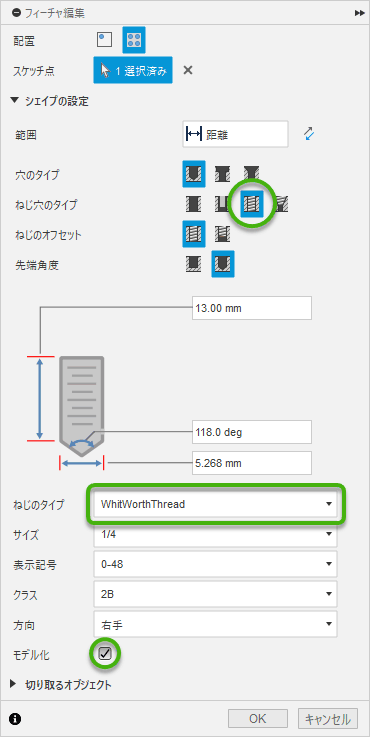
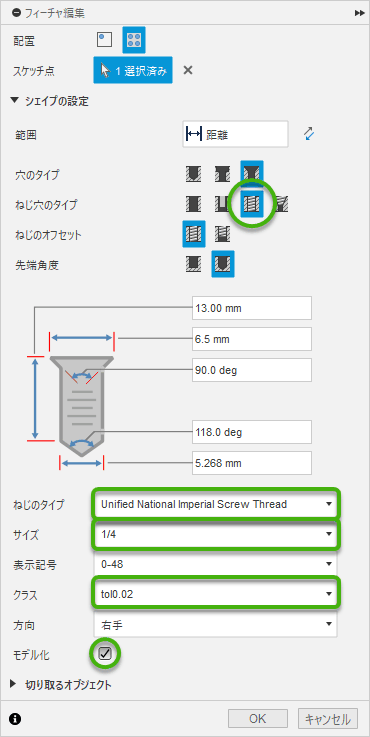
fix article

diff --git a/docs/2025/0129-fusion360-tips/index.html b/docs/2025/0129-fusion360-tips/index.html
@@ -65,40 +65,63 @@
         <p>Fusion360 関連の雑多なメモ。随時追加する</p>
         <h3>三脚・雲台用のネジとネジ穴</h3>
         <p><a href="https://qiita.com/2019Shun/items/ccba3b541a2798bcdf82" target="_blank">Fusion360で三脚・雲台用のインチネジ(W1/4)の設定 #3Dプリンタ - Qiita</a></p>
-        <h4>インストール</h4>
+        <p>上記記事に記載された XML でネジ穴を作ろうとしたものの、我が家の Adventurer3 + FlashPrint のデフォルト設定ではキツすぎたので、寸法をカスタマイズしていくつか試した。</p>
+        <h4>設定ファイルのインストール</h4>
         <ol>
+          <li><a href="./unified-national-imperial-screw-thread-r1.zip">unified-national-imperial-screw-thread-r1.zip</a> をダウンロードして展開する。</li>
           <li>
-            <p>上記記事に添付された XML ファイルを <code>%LOCALAPPDATA%\Autodesk\webdeploy\production\(長い16進数)\Fusion\Server\Fusion\Configuration\ThreadData\</code> に作成する</p>
+            <p>XML ファイルを <code>%LOCALAPPDATA%\Autodesk\webdeploy\production\(長い16進数)\Fusion\Server\Fusion\Configuration\ThreadData\</code> に配置する。</p>
             <ul>
-              <li><code>(長い16進数)</code> のとこはバージョンアップ時に新しく作られるっぽくて、そのたびに XML ファイルを移動させる必要があるかも</li>
+              <li><code>%LOCALAPPDATA%</code> はエクスプローラのアドレスバーに貼り付けると <code>C:\Users\(ユーザ名)\AppData\Local</code> に勝手に置換される。</li>
+              <li><code>(長い16進数)</code> のとこはバージョンアップ時に新しく作られるっぽくて、そのたびに XML ファイルを移動させる必要があるかも。</li>
             </ul>
-          </li>
-          <li>
-            <p>上記記事では W1/4 規格 (ネジ山の角度 = 55°) で作成されているようだけど、厳密には UNC1/4 (60°) にした方がいいかも (参考記事参照)</p>
-            <pre class="lang_diff" title="WhitWorthThead(External).xml">:
-- &lt;Angle&gt;55&lt;/Angle&gt;
-+ &lt;Angle&gt;60&lt;/Angle&gt;
-:
-- &lt;CTD&gt;W1/4&lt;/CTD&gt;
-+ &lt;CTD&gt;UNC1/4&lt;/CTD&gt;
-:</pre>
           </li>
         </ol>
         <h4>使用方法 (穴)</h4>
         <p>穴を開けるときにネジ穴を設定する</p>
         <ul>
           <li>ねじ穴のタイプ: <code>ねじ穴</code></li>
-          <li>ねじのタイプ: <code>WhitWorthThead</code></li>
-          <li>モデル化: チェックする (STL や STEP にエクスポートする場合)</li>
+          <li>ねじのタイプ: <code>Unified National Imperial Screw Thread</code></li>
+          <li>サイズ: <code>1/4</code></li>
+          <li>
+            <p>クラス:</p>
+            <table>
+              <tr>
+                <th class="nowrap" style="text-align: center;">表示名</th>
+                <th>規格 (寸法)</th>
+              </tr>
+              <tr>
+                <td class="nowrap" style="text-align: center;"><code>2B</code></td>
+                <td>1/4-20 UNC 2B</td>
+              </tr>
+              <tr>
+                <td class="nowrap" style="text-align: center;"><code>1B</code></td>
+                <td>1/4-20 UNC 1B</td>
+              </tr>
+              <tr>
+                <td class="nowrap" style="text-align: center;"><code>tol0.02</code></td>
+                <td>規格外 (直径のトレランス=0.02inch)</td>
+              </tr>
+              <tr>
+                <td class="nowrap" style="text-align: center;"><code>tol0.03</code></td>
+                <td>規格外 (直径のトレランス=0.03inch)</td>
+              </tr>
+              <tr>
+                <td class="nowrap" style="text-align: center;"><code>tol0.04</code></td>
+                <td>規格外 (直径のトレランス=0.04inch)</td>
+              </tr>
+            </table>
+            <ul>
+              <li>垂直方向の穴については <code>1B</code> が良い感じだった。</li>
+              <li>水平方向や傾いた穴については <code>tol0.02</code> ～ <code>tol0.03</code> あたりが良い感じだった。</li>
+            </ul>
+          </li>
+          <li>STL や STEP へのエクスポートでネジ山を反映するには <code>モデル化</code> にチェックする</li>
         </ul>
         <p><img src="./unc1p4-ss.png" alt=""></p>
-        <h4>参考記事</h4>
-        <ul>
-          <li><a href="https://slowhome-diy.com/diy/material-comparison/make-your-own-camera-peripherals" target="_blank">カメラの三脚についてるボルトの規格｜unc1/4はw1/4で代用できる？ | スローホーム</a></li>
-        </ul>
                   <hr>
 
-        <h3>三面図の作り方</h3>
+        <h3>三面図</h3>
         <p><a href="https://3d-modely.com/blog/3d-software/fusion-360-drawing/" target="_blank">Fusion 360で3Dデータから2D図面を作成する方法 | モデログ</a></p>
         <ul>
           <li>左上の <code>デザイン</code> → <code>図面</code> → <code>デザインから</code> → <code>OK</code> で作成開始する</li>

diff --git a/src/article/2025/0129-fusion360-tips/article.md b/src/article/2025/0129-fusion360-tips/article.md
@@ -6,41 +6,43 @@ Fusion360 関連の雑多なメモ。随時追加する
 
 [Fusion360で三脚・雲台用のインチネジ(W1/4)の設定 #3Dプリンタ - Qiita](https://qiita.com/2019Shun/items/ccba3b541a2798bcdf82)
 
-### インストール
+上記記事に記載された XML でネジ穴を作ろうとしたものの、我が家の Adventurer3 + FlashPrint のデフォルト設定ではキツすぎたので、寸法をカスタマイズしていくつか試した。
 
-1. 上記記事に添付された XML ファイルを `%LOCALAPPDATA%\Autodesk\webdeploy\production\(長い16進数)\Fusion\Server\Fusion\Configuration\ThreadData\` に作成する
+### 設定ファイルのインストール
 
-    - `(長い16進数)` のとこはバージョンアップ時に新しく作られるっぽくて、そのたびに XML ファイルを移動させる必要があるかも
+1. [unified-national-imperial-screw-thread-r1.zip](./unified-national-imperial-screw-thread-r1.zip) をダウンロードして展開する。
+2. XML ファイルを `%LOCALAPPDATA%\Autodesk\webdeploy\production\(長い16進数)\Fusion\Server\Fusion\Configuration\ThreadData\` に配置する。
 
-2. 上記記事では W1/4 規格 (ネジ山の角度 = 55°) で作成されているようだけど、厳密には UNC1/4 (60°) にした方がいいかも (参考記事参照)
-
-    ```diff:WhitWorthThead(External).xml
-    :
-    - <Angle>55</Angle>
-    + <Angle>60</Angle>
-    :
-    - <CTD>W1/4</CTD>
-    + <CTD>UNC1/4</CTD>
-    :
-    ```
+    - `%LOCALAPPDATA%` はエクスプローラのアドレスバーに貼り付けると `C:\Users\(ユーザ名)\AppData\Local` に勝手に置換される。
+    - `(長い16進数)` のとこはバージョンアップ時に新しく作られるっぽくて、そのたびに XML ファイルを移動させる必要があるかも。
 
 ### 使用方法 (穴)
 
 穴を開けるときにネジ穴を設定する
 
 - ねじ穴のタイプ: `ねじ穴`
-- ねじのタイプ: `WhitWorthThead`
-- モデル化: チェックする (STL や STEP にエクスポートする場合)
+- ねじのタイプ: `Unified National Imperial Screw Thread`
+- サイズ: `1/4`
+- クラス:
+
+    |表示名|規格 (寸法)|
+    |:--:|:--|
+    |`2B`|1/4-20 UNC 2B|
+    |`1B`|1/4-20 UNC 1B|
+    |`tol0.02`|規格外 (直径のトレランス=0.02inch)|
+    |`tol0.03`|規格外 (直径のトレランス=0.03inch)|
+    |`tol0.04`|規格外 (直径のトレランス=0.04inch)|
+
+    - 垂直方向の穴については `1B` が良い感じだった。
+    - 水平方向や傾いた穴については `tol0.02` ～ `tol0.03` あたりが良い感じだった。
+
+- STL や STEP へのエクスポートでネジ山を反映するには `モデル化` にチェックする
 
 ![](./unc1p4-ss.png)
 
-### 参考記事
-
-- [カメラの三脚についてるボルトの規格｜unc1/4はw1/4で代用できる？ | スローホーム](https://slowhome-diy.com/diy/material-comparison/make-your-own-camera-peripherals)
-
 ----
 
-## 三面図の作り方
+## 三面図
 
 [Fusion 360で3Dデータから2D図面を作成する方法 | モデログ](https://3d-modely.com/blog/3d-software/fusion-360-drawing/)
 
